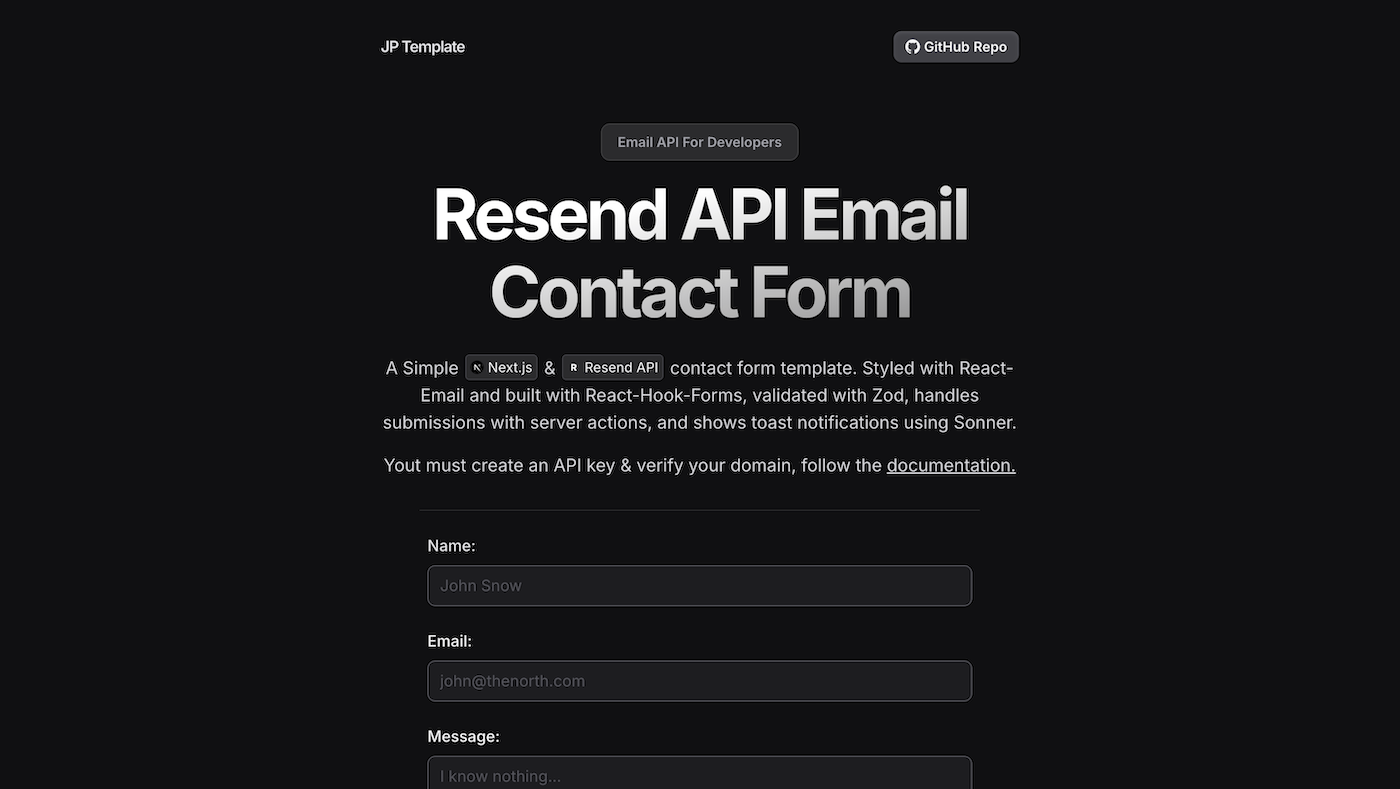
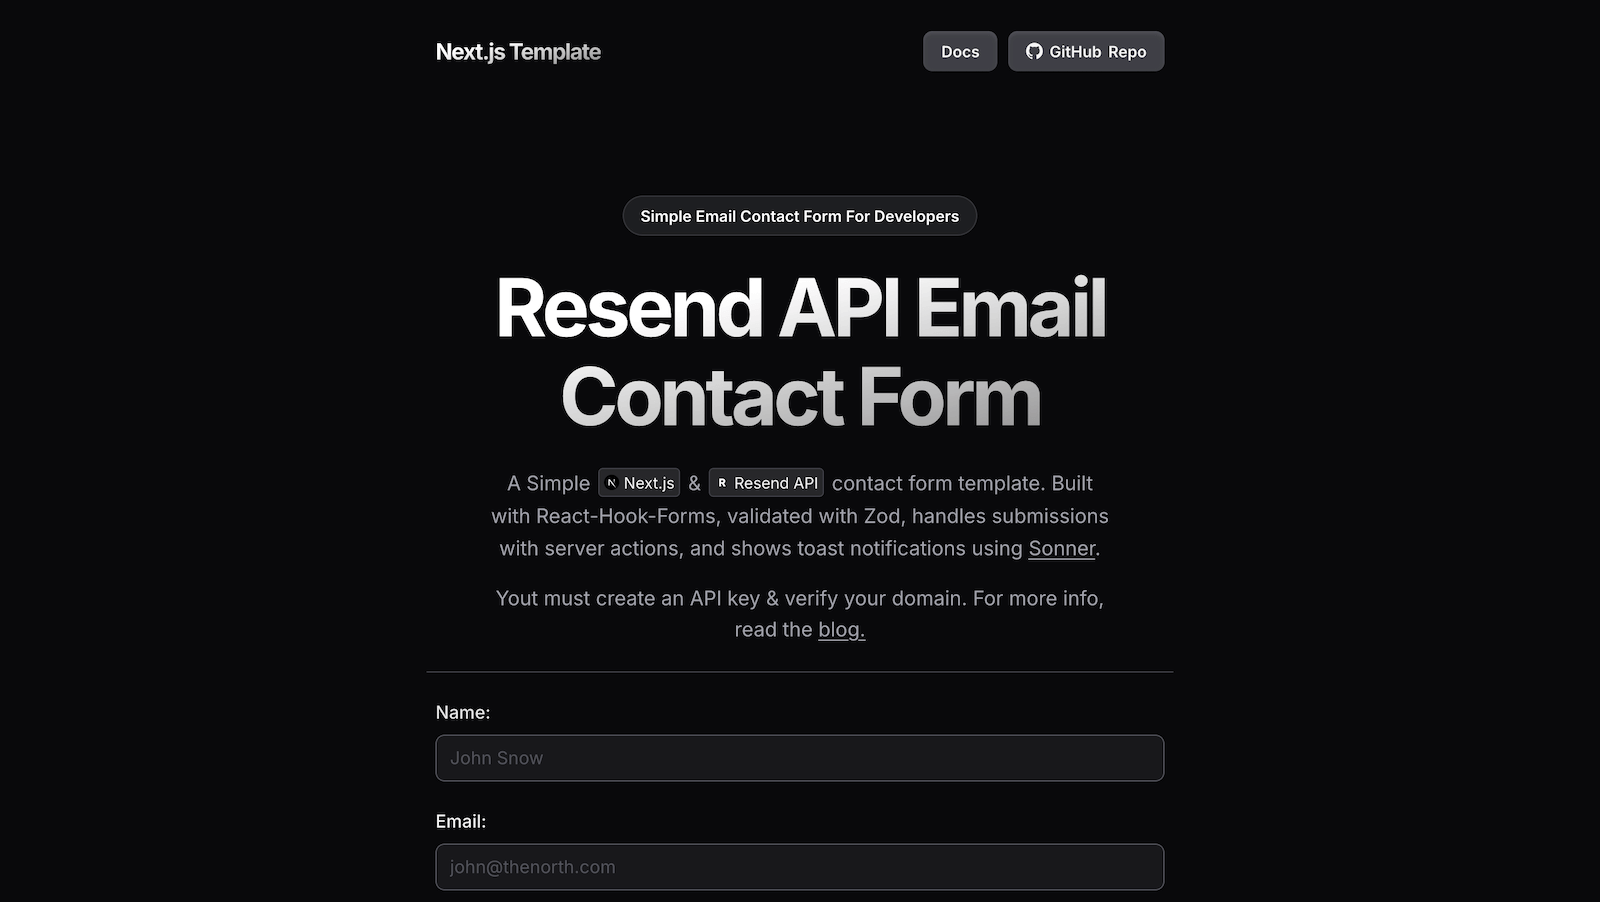
readme & hero img updated, motion added

diff --git a/app/page.tsx b/app/page.tsx
@@ -1,6 +1,9 @@
+"use client"
+
 import Image from "next/image";
 import ContactForm from "../app/components/ContactForm";
 import Link from "next/link";
+import { motion } from "motion/react"
 
 function Pin(props: JSX.IntrinsicAttributes & React.AnchorHTMLAttributes<HTMLAnchorElement>) {
   return (
@@ -15,6 +18,11 @@ function Pin(props: JSX.IntrinsicAttributes & React.AnchorHTMLAttributes<HTMLAnc
 export default function Home() {
   return (
     <main className="mb-20 mt-8 md:mt-12 flex flex-1 w-full flex-col items-center justify-center text-center">
+      <motion.div
+        initial={{ opacity: 0, y: 20, filter: "blur(10px)" }}
+        animate={{ opacity: 1, y: 0, filter: "blur(0px)" }}
+        transition={{ duration: 0.4, ease: "easeOut" }}
+      >
       <span className="mb-6 rounded-full bg-zinc-400 dark:bg-zinc-500/20 px-4 py-1.5 text-sm/6 font-semibold text-white ring-1 ring-inset ring-zinc-500 dark:ring-zinc-500/30">
         Simple Email Contact Form For Developers
       </span>
@@ -50,10 +58,16 @@ export default function Home() {
       <p className="max-w-xl mx-auto text-pretty mt-4 text-center text-zinc-400 md:text-lg">
         Yout must create an API key & verify your domain. For more info, read the  <Link href="https://www.jorge-perez.dev/blog/resend-contact-form" className="underline hover:text-white transition-all">blog.</Link>
       </p>
+      </motion.div>
+      <motion.div
+        initial={{ opacity: 0, y: 20, filter: "blur(10px)" }}
+        animate={{ opacity: 1, y: 0, filter: "blur(0px)" }}
+        transition={{ duration: 0.4, ease: "easeOut", delay: 0.3 }}
+        className="text-left w-full"
+      >
       <hr className="my-6 border-zinc-700 w-full" />
-      <div className="text-left w-full">
-        <ContactForm />
-      </div>
+      <ContactForm />
+      </motion.div>
     </main>
   );
 }

diff --git a/README.md b/README.md
@@ -3,7 +3,7 @@
 
 ![Image](/public/resend-hero-image.png)
 
-A Simple [Next.js](https://nextjs.org/), [TypeScript](https://www.typescriptlang.org/) & [Tailwind CSS](https://tailwindcss.com/) contact form template that uses the [Resend API](https://resend.com/). Styled with React-Email and built with React-Hook-Forms, validated with Zod, handles submissions with server actions, and shows toast notifications using Sonner.
+A Simple [Next.js](https://nextjs.org/), [TypeScript](https://www.typescriptlang.org/) & [Tailwind CSS](https://tailwindcss.com/) contact form template that uses the [Resend API](https://resend.com/). Built with React-Hook-Forms, validated with Zod, handles submissions with server actions, and shows toast notifications using Sonner.
 
 ## Live Demo:
 
@@ -14,7 +14,6 @@ A Simple [Next.js](https://nextjs.org/), [TypeScript](https://www.typescriptlang
 
 - Resend Email API
 - Form built with [React-Hook-Forms](https://react-hook-form.com/)
-- Styled with [React-Email](https://react.email/)
 - Email validation With [Zod](https://zodjs.netlify.app/)
 - Dialog Toast Notification With [Sonner](https://sonner.emilkowal.ski/)
 
@@ -59,11 +58,27 @@ EMAIL_FROM=Your Website Name <noreply@your-domain.com>
 EMAIL_TO=your_destination_email@example.com
 ```
 
-#### Note:
+#### Important Note:
 
-Include the `""` in the `.env.local` file, but do not include the `""` in the `Vercel Environment Variables`, see example below:
+Include quotes around the value in the `.env.local` file, but omit them in the `Vercel Environment Variables`. For example:
+
+- Locally: `EMAIL_FROM="Coding SaaS <noreply@codingsaas.com>"`
+- On Vercel: `EMAIL_FROM=Coding SaaS <noreply@codingsaas.com>`
+
+See Vercel deployment example below:
 
 ![Image](/public/resend-env-2.png)
+
+### Email Destination
+
+If your verified domain is, for example, `"www.skynet.com"`, you could use `noreply@skynet.com` as the sender. Variations like `no-reply, sender, delivered,` are also acceptable (I personally use <noreply@mydomain.com>).
+
+Assign a title to your email to indicate it’s coming from your landing page, then update your email configuration:
+
+```bash
+EMAIL_FROM="Coding SaaS <noreply@codingsaas.com>"
+EMAIL_TO=your_destination_email@email.com
+```
 
 ## Start Editing
 
